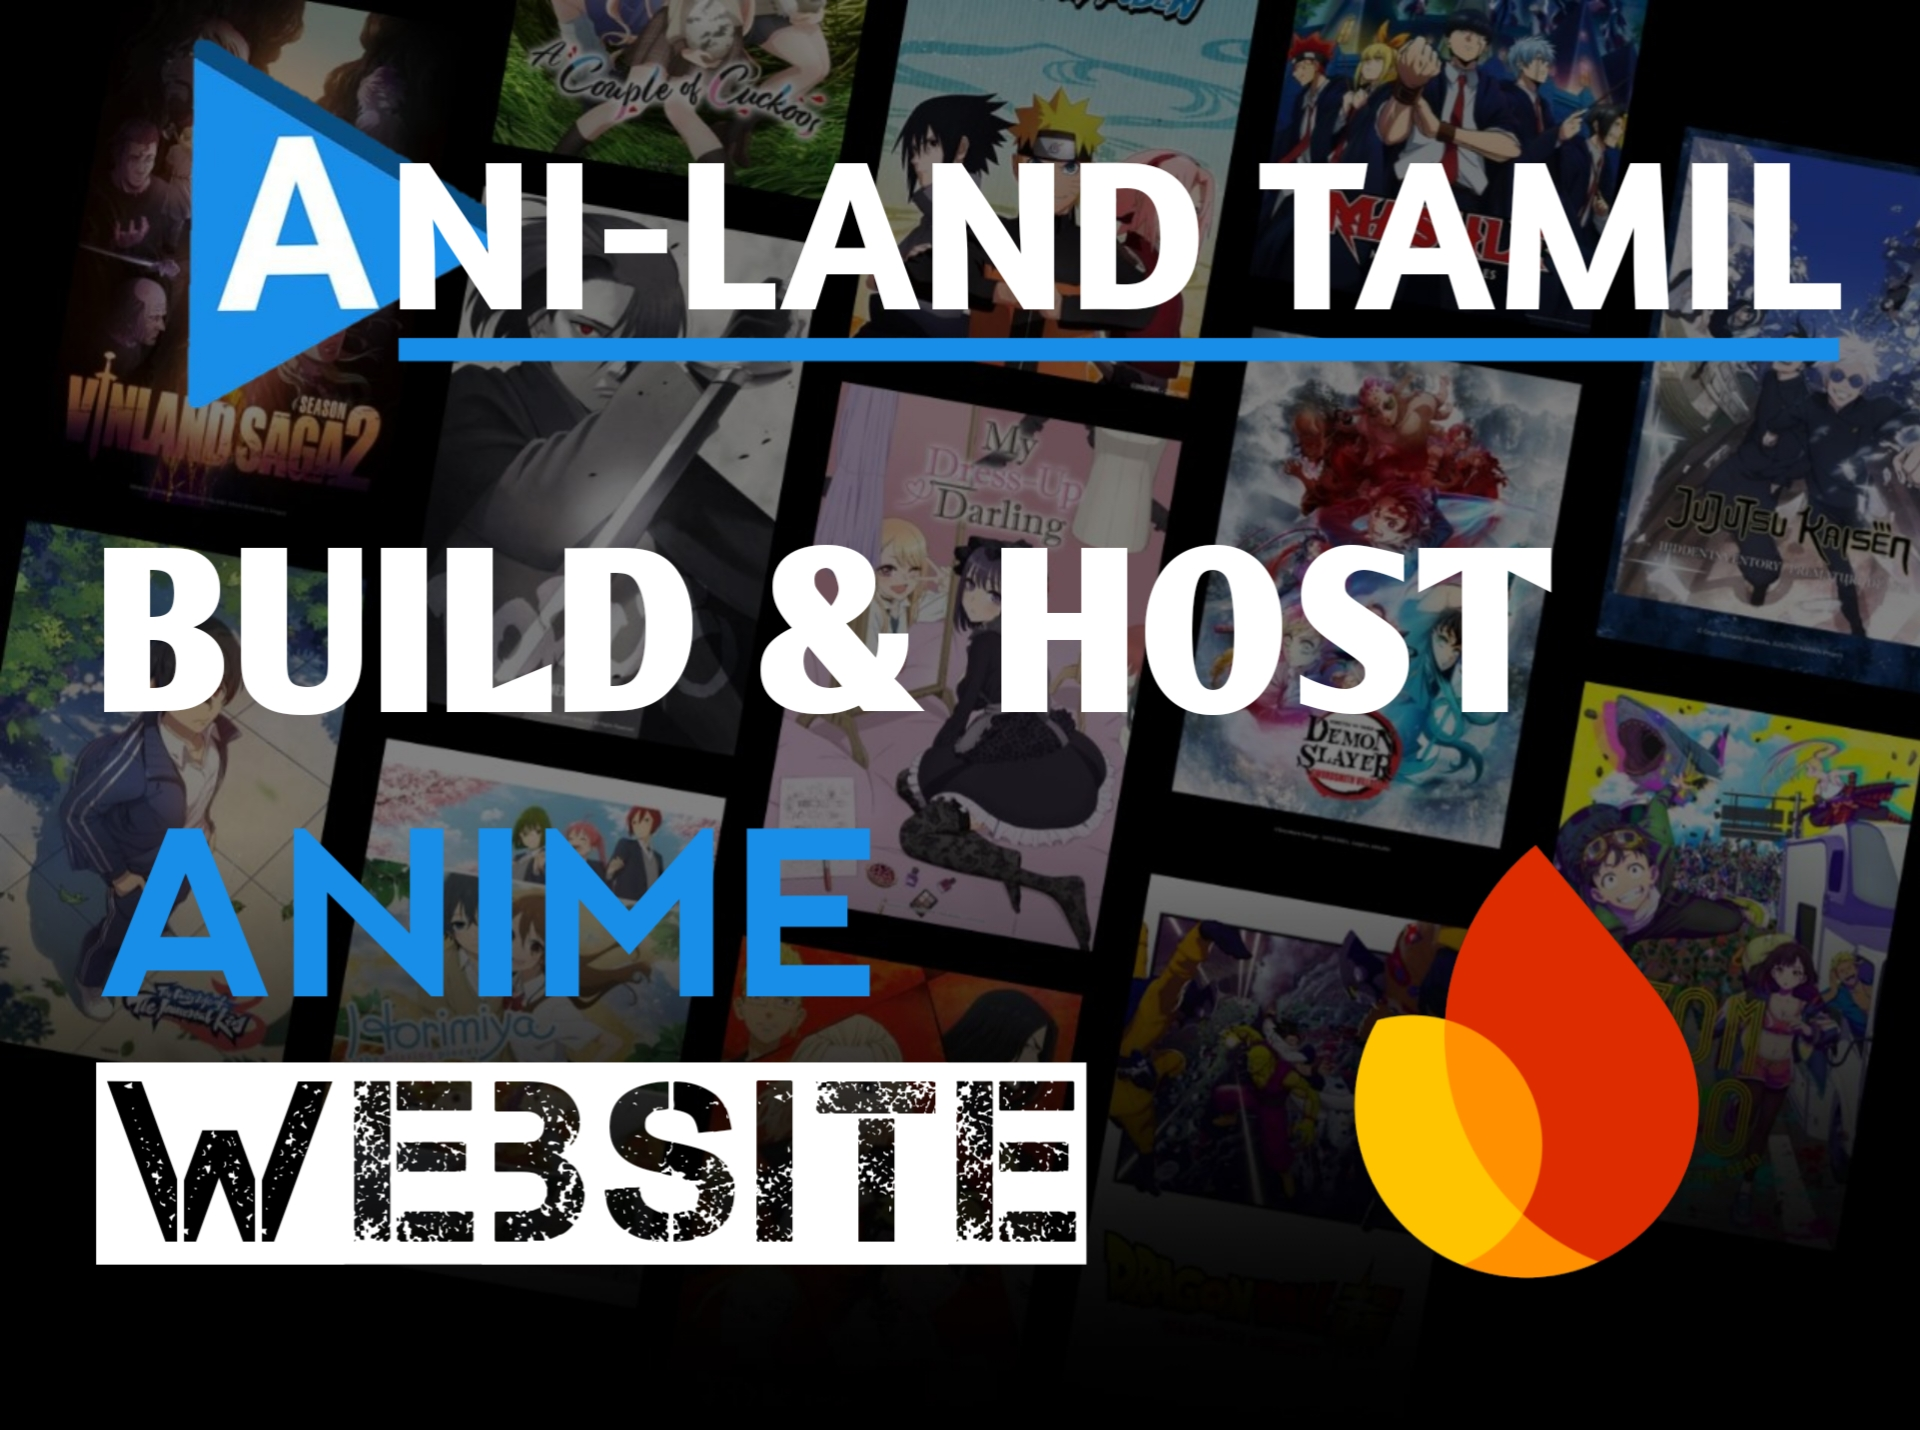
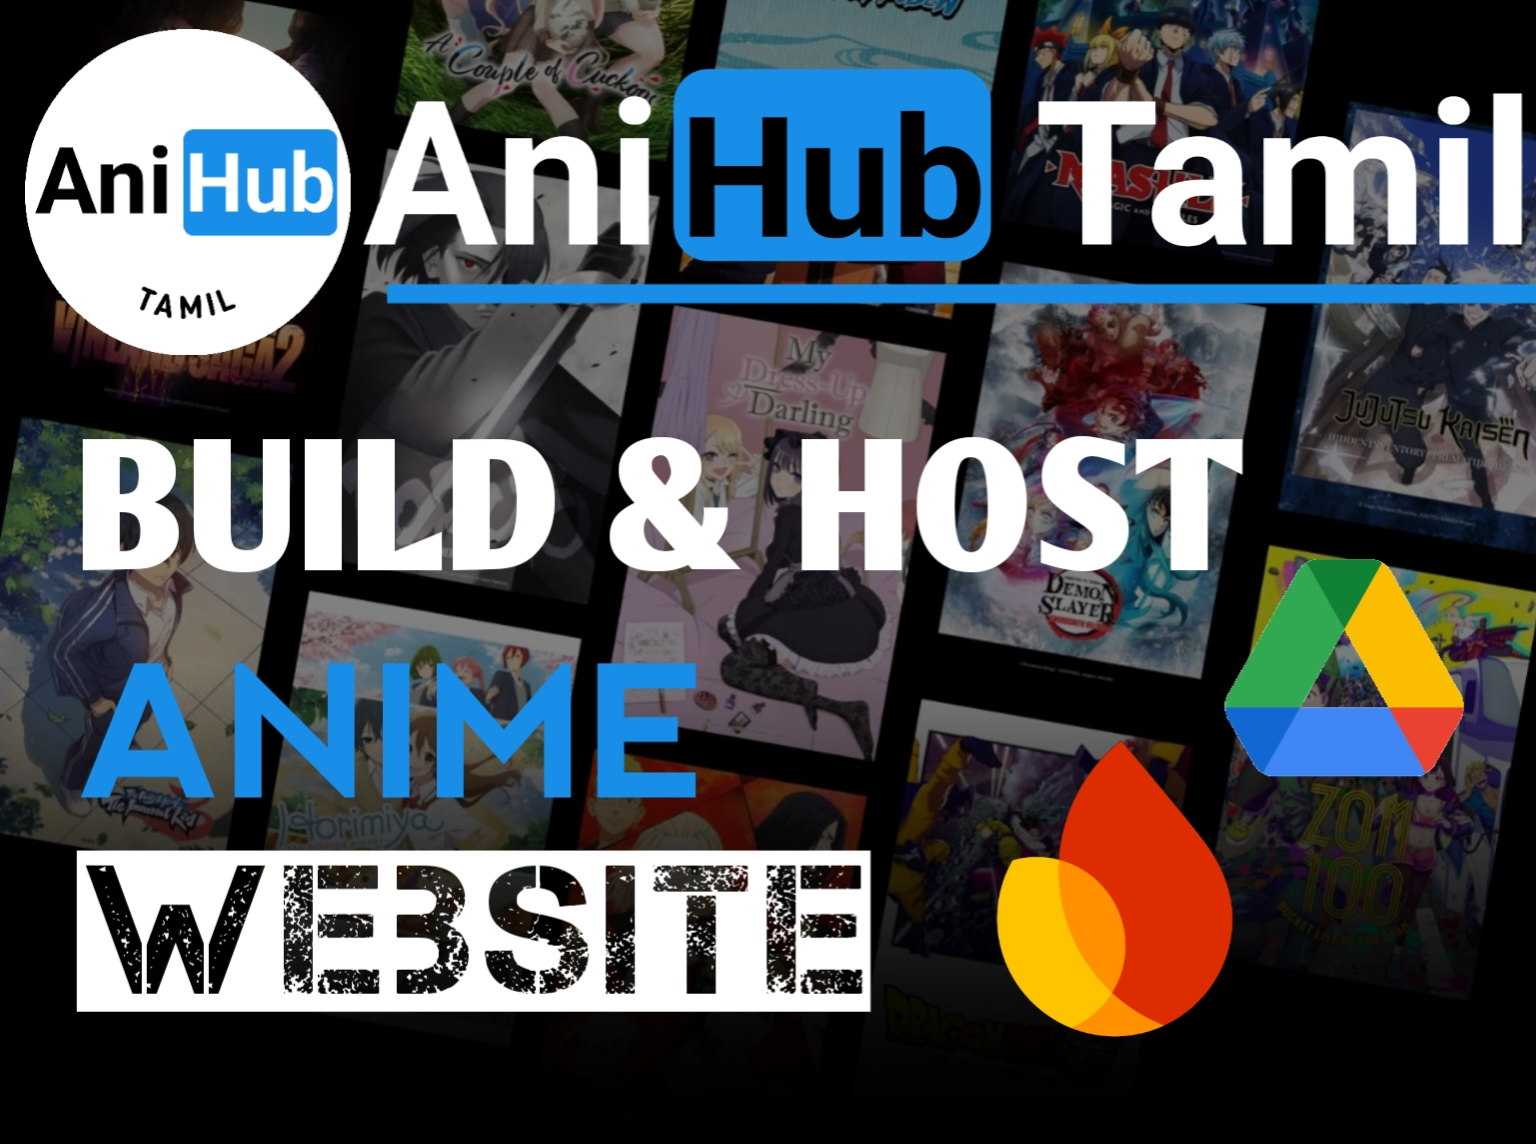
updated project and image of it

diff --git a/src/components/Portfolio.jsx b/src/components/Portfolio.jsx
@@ -13,8 +13,8 @@ const Portfolio = () => {
     {
       id: 2,
       src: image,
-      href: 'https://github.com/Rahul25S/Ani_Land_Tamil_Website_Project_Clg.git',
-      l1: "https://ani-land-tamil-2115c.web.app",
+      href: 'https://github.com/Rahul25S/Ani_Hub_Tamil_Website_Project_Clg',
+      l1: "https://ani-hub-tamil.web.app/",
     },
     
     
